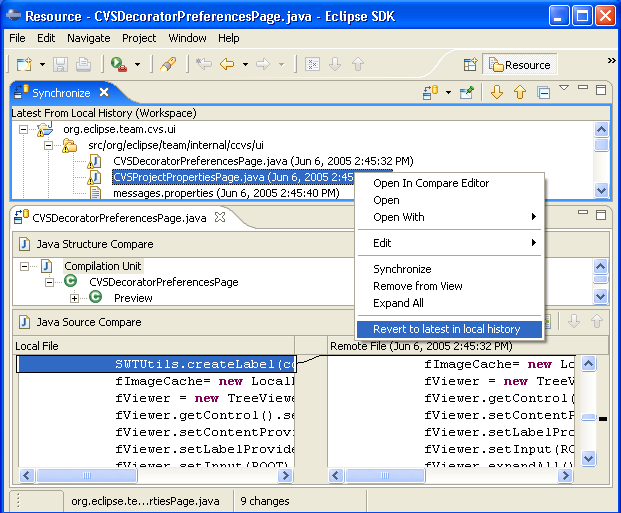
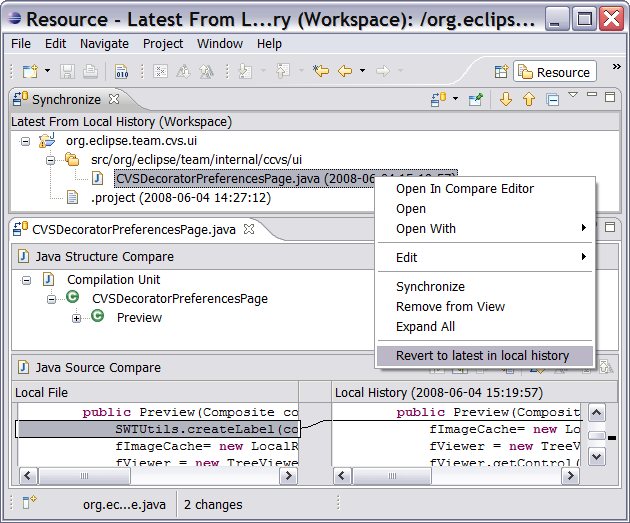
Bug 192835 - [Doc] Outdated screen shot on Local History Example page in Plug-in Dev Guide

diff --git a/bundles/org.eclipse.platform.doc.isv/guide/team_synchronize_localhistory_example.htm b/bundles/org.eclipse.platform.doc.isv/guide/team_synchronize_localhistory_example.htm
@@ -30,8 +30,8 @@
   plug-in. You can check the project out from the CVS repository and use it as 
   a reference while you are reading this tutorial. <em>Disclaimer</em>: The source 
   code in the example plug-ins may change over time. To get a copy that matches 
-  what is used in this example, you can check out the project using the 3.0 version 
-  tag (most likely R3_0) or a date tag of June 28, 2004.<br>
+  what is used in this example, you can check out the project using the 3.3.2 version 
+  tag (most likely R3_3_2) or a date tag of June 10, 2007.<br>
   <br>
   <img src="images/team_synchronize_example_localhistory_overview.png" alt="local history overview"><br>
   <br>
@@ -47,33 +47,34 @@
   history. This will allow the synchronize APIs to access the contents from the 
   local history so it can be compared with the current contents and displayed 
   to the user.</p>
-<pre><span style="color: rgb(68, 68, 204);">public class LocalHistoryVariant implements IResourceVariant {</span><br
- style="color: rgb(68, 68, 204);"><span style="color: rgb(68, 68, 204);">  private final IFileState state;</span><br
- style="color: rgb(68, 68, 204);"><br style="color: rgb(68, 68, 204);"><span
- style="color: rgb(68, 68, 204);">  public LocalHistoryVariant(IFileState state) {</span><br
- style="color: rgb(68, 68, 204);"><span style="color: rgb(68, 68, 204);">    this.state = state;</span><br
- style="color: rgb(68, 68, 204);"><span style="color: rgb(68, 68, 204);">  }</span><br
- style="color: rgb(68, 68, 204);"><br
- style="color: rgb(68, 68, 204);"><span style="color: rgb(68, 68, 204);">  public String getName() {</span><br
- style="color: rgb(68, 68, 204);"><span style="color: rgb(68, 68, 204);">    return state.getName();</span><br
- style="color: rgb(68, 68, 204);"><span style="color: rgb(68, 68, 204);">  }</span><br
- style="color: rgb(68, 68, 204);"><br style="color: rgb(68, 68, 204);"><span
- style="color: rgb(68, 68, 204);">  public boolean isContainer() {</span><br
- style="color: rgb(68, 68, 204);"><span style="color: rgb(68, 68, 204);">    return false;</span><br
- style="color: rgb(68, 68, 204);"><span style="color: rgb(68, 68, 204);">  }</span><br
- style="color: rgb(68, 68, 204);"><br style="color: rgb(68, 68, 204);"><span
- style="color: rgb(68, 68, 204);">  public IStorage getStorage(IProgressMonitor monitor) throws TeamException {</span><br
- style="color: rgb(68, 68, 204);"><span style="color: rgb(68, 68, 204);">    return state;</span><br
- style="color: rgb(68, 68, 204);"><span style="color: rgb(68, 68, 204);">  }</span><br
- style="color: rgb(68, 68, 204);"><br style="color: rgb(68, 68, 204);"><span
- style="color: rgb(68, 68, 204);">  public String getContentIdentifier() {</span><br
- style="color: rgb(68, 68, 204);"><span style="color: rgb(68, 68, 204);">    return Long.toString(state.getModificationTime());</span><br
- style="color: rgb(68, 68, 204);"><span style="color: rgb(68, 68, 204);">  }</span><br
- style="color: rgb(68, 68, 204);"><br style="color: rgb(68, 68, 204);"><span
- style="color: rgb(68, 68, 204);">  public byte[] asBytes() {</span><br
- style="color: rgb(68, 68, 204);"><span style="color: rgb(68, 68, 204);">    return null;</span><br
- style="color: rgb(68, 68, 204);"><span style="color: rgb(68, 68, 204);">  }</span><br
- style="color: rgb(68, 68, 204);"><span style="color: rgb(68, 68, 204);">}</span></pre>
+
+<pre><span style="color: rgb(68, 68, 204);">
+public class LocalHistoryVariant implements IResourceVariant {
+  private final IFileState state;
+  public LocalHistoryVariant(IFileState state) {
+    this.state = state;
+  }
+  public String getName() {
+    return state.getName();
+  }
+  public boolean isContainer() {
+    return false;
+  }
+  public IStorage getStorage(IProgressMonitor monitor) throws TeamException {
+    return state;
+  }
+  public String getContentIdentifier() {
+    return DateFormat.getDateTimeInstance().format(new Date(state.getModificationTime()));
+  }
+  public byte[] asBytes() {
+    return null;
+  }
+  public IFileState getFileState() {
+    return state;
+  }
+}
+</span></pre>
+ 
 <p>Since the IFileState interface already provides access to the contents of the 
   file from local history (i.e. implements the IStorage interface), this was easy. 
   Generally, when creating a variant you have to provide a way of accessing the 
@@ -87,19 +88,21 @@
   history state differs from the current contents of the file. This is because 
   the specification for local history says that it won't create a local history 
   state if the file hasn't changed. </p>
-<pre><span style="color: rgb(68, 68, 204);">public class LocalHistoryVariantComparator implements IResourceVariantComparator {</span><br
- style="color: rgb(68, 68, 204);"><span style="color: rgb(68, 68, 204);">  public boolean compare(IResource local, IResourceVariant remote) {</span><br
- style="color: rgb(68, 68, 204);"><span style="color: rgb(68, 68, 204);">    return false;</span><br
- style="color: rgb(68, 68, 204);"><span style="color: rgb(68, 68, 204);">  }</span><br
- style="color: rgb(68, 68, 204);"><br style="color: rgb(68, 68, 204);"><span
- style="color: rgb(68, 68, 204);">  public boolean compare(IResourceVariant base, IResourceVariant remote) {</span><br
- style="color: rgb(68, 68, 204);"><span style="color: rgb(68, 68, 204);">    return false;</span><br
- style="color: rgb(68, 68, 204);"><span style="color: rgb(68, 68, 204);">  }</span><br
- style="color: rgb(68, 68, 204);"><br style="color: rgb(68, 68, 204);"><span
- style="color: rgb(68, 68, 204);">  public boolean isThreeWay() {</span><br
- style="color: rgb(68, 68, 204);"><span style="color: rgb(68, 68, 204);">    return false;</span><br
- style="color: rgb(68, 68, 204);"><span style="color: rgb(68, 68, 204);">  }</span><br
- style="color: rgb(68, 68, 204);"><span style="color: rgb(68, 68, 204);">}</span></pre>
+
+<pre><span style="color: rgb(68, 68, 204);">
+public class LocalHistoryVariantComparator implements IResourceVariantComparator {
+  public boolean compare(IResource local, IResourceVariant remote) {
+    return false;
+  }
+  public boolean compare(IResourceVariant base, IResourceVariant remote) {
+    return false;
+  }
+  public boolean isThreeWay() {
+    return false;
+  }
+}
+</span></pre>
+ 
 <p>Because we know that the existence of the local history state implies that 
   it is different from the local, we can simply return <strong>false</strong> 
   when comparing the file to it's local history state. Also, synchronization with 
@@ -111,18 +114,21 @@
   have a local history and for all folders (which never have a local history). 
   To deal with this, we need to define our own subclass of SyncInfo in order to 
   modify the calculated synchronization state for these cases.</p>
-<pre><span style="color: rgb(68, 68, 204);">public class LocalHistorySyncInfo extends SyncInfo {
+  
+<pre><span style="color: rgb(68, 68, 204);">
+public class LocalHistorySyncInfo extends SyncInfo {
   public LocalHistorySyncInfo(IResource local, IResourceVariant remote, IResourceVariantComparator comparator) {
     super(local, null, remote, comparator);
   }
-
   protected int calculateKind() throws TeamException {
     if (getRemote() == null)
       return IN_SYNC;
     else
       return super.calculateKind();
   }
-}</span></pre>
+}
+</span></pre>
+
 <p>We have overridden the constructor to always provide a base that is <em>null</em> 
   (since we are only using two-way comparison) and we have modified the synchronization 
   kind calculation to return <em>IN_SYNC</em> if there is no remote (since we 
@@ -137,13 +143,15 @@
   the contents of a local file changes. Therefore, we can update our state whenever 
   a resource delta occurs. That leaves only two interesting method on our local 
   history subscriber: obtaining a SyncInfo and traversing the workspace. </p>
-<pre><span style="color: rgb(68, 68, 204);">public SyncInfo getSyncInfo(IResource resource) throws TeamException {
+
+<pre><span style="color: rgb(68, 68, 204);">
+public SyncInfo getSyncInfo(IResource resource) throws TeamException {
   try {
     IResourceVariant variant = null;
     if(resource.getType() == IResource.FILE) {
       IFile file = (IFile)resource;
       IFileState[] states = file.getHistory(null);
-      if(states.length &gt; 0) {
+      if(states.length > 0) {
         // last state only
         variant = new LocalHistoryVariant(states[0]);
       } 
@@ -154,7 +162,9 @@
   } catch (CoreException e) {
     throw TeamException.asTeamException(e);
   }
-}</span></pre>
+}
+</span></pre>
+
 <p>The Subscriber will return a new SyncInfo instance that will contain the latest 
   state of the file in local history. The SyncInfo is created with a local history 
   variant for the remote element. For projects, folders and files with no local 
@@ -163,19 +173,22 @@
 </p>
 <p>The remaining code in the local history subscriber is the implementation of 
   the <em>members</em> method:</p>
-<pre><span style="color: rgb(68, 68, 204);">public IResource[] members(IResource resource) throws TeamException {
-  try {
-    if(resource.getType() == IResource.FILE)
-      return new IResource[0];
-    IContainer container = (IContainer)resource;
-    List existingChildren = new ArrayList(Arrays.asList(container.members()));
-    existingChildren.addAll(
-      Arrays.asList(container.findDeletedMembersWithHistory(IResource.DEPTH_INFINITE, null)));
-    return (IResource[]) existingChildren.toArray(new IResource[existingChildren.size()]);
-  } catch (CoreException e) {
-    throw TeamException.asTeamException(e);
-  }
-}</span></pre>
+
+<pre><span style="color: rgb(68, 68, 204);">
+public IResource[] members(IResource resource) throws TeamException {
+    try {
+      if(resource.getType() == IResource.FILE)
+        return new IResource[0];
+      IContainer container = (IContainer)resource;
+      List existingChildren = new ArrayList(Arrays.asList(container.members()));
+      existingChildren.addAll(Arrays.asList(container.findDeletedMembersWithHistory(IResource.DEPTH_INFINITE, null)));
+      return (IResource[]) existingChildren.toArray(new IResource[existingChildren.size()]);
+    } catch (CoreException e) {
+      throw TeamException.asTeamException(e);
+    }
+}
+</span></pre>
+
 <p>The interesting detail of this method is that it will return non-existing children 
   if a deleted resource has local history. This will allow our Subscriber to return 
   SyncInfo for elements that only exist in local history and are no longer in 
@@ -186,22 +199,28 @@
   have a page in the Synchronize View to display the last history state for every 
   element in local history. Since we have a Subscriber, adding this to the Synchronize 
   View is easy. Let's start by adding an synchronize participant extension point:</p>
-<pre><span style="color: rgb(68, 68, 204);">&lt;extension
-       </span><span style="color: rgb(68, 68, 204);">point="org.eclipse.team.ui.synchronizeParticipants"&gt;</span><br
- style="color: rgb(68, 68, 204);"><span style="color: rgb(68, 68, 204);">    &lt;participant</span><br
- style="color: rgb(68, 68, 204);"><span style="color: rgb(68, 68, 204);">        persistent="false"</span><br
- style="color: rgb(68, 68, 204);"><span style="color: rgb(68, 68, 204);">        icon="synced.png"</span><br
- style="color: rgb(68, 68, 204);"><span style="color: rgb(68, 68, 204);">        class="org.eclipse.team.synchronize.example.LocalHistoryParticipant"</span><br
- style="color: rgb(68, 68, 204);"><span style="color: rgb(68, 68, 204);">        name="Latest From Local History"</span><br
- style="color: rgb(68, 68, 204);"><span style="color: rgb(68, 68, 204);">        id="org.eclipse.team.synchronize.example"/&gt;</span><br
- style="color: rgb(68, 68, 204);"><span style="color: rgb(68, 68, 204);"> &lt;/extension&gt;</span></pre>
+
+<pre><span style="color: rgb(68, 68, 204);">
+&lt;extension
+  point="org.eclipse.team.ui.synchronizeParticipants"&gt;
+  &lt;participant
+      persistent="false"
+      icon="icons/full/wizards/synced.gif"
+      class="org.eclipse.team.examples.localhistory.LocalHistoryParticipant"
+      name="Latest From Local History"
+      id="org.eclipse.team.synchronize.example"/&gt;
+&lt;/extension&gt;
+</span></pre>
+ 
 <p>Next we have to implement the LocalHistoryParticipant. It will subclass SubscriberParticipant 
   which will provide all the default behavior for collecting SyncInfo from the 
   subscriber and updating sync states when workspace changes occur. In addition, 
   we will add an action to revert the workspace resources to the latest in local 
   history.</p>
 <p>First, we will look at how a custom action is added to the participant.</p>
-<pre><span style="color: rgb(68, 68, 204);">public static final String CONTEXT_MENU_CONTRIBUTION_GROUP = "context_group_1"; //$NON-NLS-1$
+
+<pre><span style="color: rgb(68, 68, 204);">
+public static final String CONTEXT_MENU_CONTRIBUTION_GROUP = "context_group_1"; //$NON-NLS-1$
   
 private class LocalHistoryActionContribution extends SynchronizePageActionGroup {
   public void initialize(ISynchronizePageConfiguration configuration) {
@@ -214,7 +233,9 @@ private class LocalHistoryActionContribution extends SynchronizePageActionGroup 
         }
       });
   }
-}</span></pre>
+}
+</span></pre>
+
 <p>Here we are adding a specific SynchronizeMoidelAction and operation. The behavior 
   we get for free here is the ability to run in the background and show busy status 
   for the nodes that are being worked on. The action reverts all resources in 
@@ -224,17 +245,43 @@ private class LocalHistoryActionContribution extends SynchronizePageActionGroup 
   display the actual synchronize UI. </p>
 <p>The participant will initialize the configuration as follows in order to add 
   the local history action group to the context menu:</p>
-<pre><span style="color: rgb(68, 68, 204);">protected void initializeConfiguration(ISynchronizePageConfiguration configuration) {</span><br
- style="color: rgb(68, 68, 204);"><span style="color: rgb(68, 68, 204);">  super.initializeConfiguration(configuration);</span><br
- style="color: rgb(68, 68, 204);"><span style="color: rgb(68, 68, 204);">  configuration.addMenuGroup(</span><br
- style="color: rgb(68, 68, 204);"><span style="color: rgb(68, 68, 204);">      ISynchronizePageConfiguration.P_CONTEXT_MENU, </span><br
- style="color: rgb(68, 68, 204);"><span style="color: rgb(68, 68, 204);">      CONTEXT_MENU_CONTRIBUTION_GROUP);</span><br
- style="color: rgb(68, 68, 204);"><span style="color: rgb(68, 68, 204);">  configuration.addActionContribution(new LocalHistoryActionContribution());
-  configuration.addLabelDecorator(new LocalHistoryDecorator());</span><br
- style="color: rgb(68, 68, 204);"><span style="color: rgb(68, 68, 204);">}</span></pre>
+  
+<pre><span style="color: rgb(68, 68, 204);">
+protected void initializeConfiguration(ISynchronizePageConfiguration configuration) {
+  super.initializeConfiguration(configuration);
+  configuration.addMenuGroup(
+    ISynchronizePageConfiguration.P_CONTEXT_MENU, 
+    CONTEXT_MENU_CONTRIBUTION_GROUP);
+  configuration.addActionContribution(new LocalHistoryActionContribution());
+  configuration.addLabelDecorator(new LocalHistoryDecorator());	
+}
+</span></pre>
+ 
 <p>Now lets look at how we can provide a custom decoration. The last line of the 
   above method registers the following decorator with the page's configuration.</p>
-<pre><span style="color: rgb(68, 68, 204);">public</span><span style="color: rgb(68, 68, 204);"> class LocalHistoryDecorator extends LabelProvider implements ILabelDecorator {<br>  public String decorateText(String text, Object element) {<br>    if(element instanceof ISynchronizeModelElement) {<br>      ISynchronizeModelElement node = (ISynchronizeModelElement)element;<br>      if(node instanceof IAdaptable) {<br>        SyncInfo info = (SyncInfo)((IAdaptable)node).getAdapter(SyncInfo.class);<br>        if(info != null) {<br>          LocalHistoryVariant state = (LocalHistoryVariant)info.getRemote();<br>          return text+ &quot; (&quot;+ state.getContentIdentifier() + &quot;)&quot;;<br>        }<br>      }<br>    }<br>    return text;<br>  }<br>    <br>  public Image decorateImage(Image image, Object element) {<br>    return null;<br>  }<br>}</span></pre>
+
+<pre><span style="color: rgb(68, 68, 204);">
+private class LocalHistoryDecorator extends LabelProvider implements ILabelDecorator {
+  public String decorateText(String text, Object element) {
+    if(element instanceof ISynchronizeModelElement) {
+      ISynchronizeModelElement node = (ISynchronizeModelElement)element;
+      if(node instanceof IAdaptable) {
+        SyncInfo info = (SyncInfo)((IAdaptable)node).getAdapter(SyncInfo.class);
+        if(info != null) {
+          LocalHistoryVariant state = (LocalHistoryVariant)info.getRemote();
+          return text+ " ("+ state.getContentIdentifier() + ")";
+        }
+      }
+    }
+    return text;
+  }
+		
+  public Image decorateImage(Image image, Object element) {
+    return null;
+  }
+}
+</span></pre>
+
 <p>The decorator extracts the resource from the model element that appears in 
   the synchronize view and appends the content identifier of the local history 
   resource variant to the text label that appears in the view.</p>
@@ -243,22 +290,30 @@ private class LocalHistoryActionContribution extends SynchronizePageActionGroup 
   action that allows users to quickly create a synchronization. In addition, the 
   ability to create synchronizations in available from the Synchronize view toolbar. 
   To start, create a synchronizeWizards extension point:</p>
-<pre><span style="color: rgb(68, 68, 204);">&lt;extension</span><br
- style="color: rgb(68, 68, 204);"><span style="color: rgb(68, 68, 204);">         point="org.eclipse.team.ui.synchronizeWizards"&gt;</span><br
- style="color: rgb(68, 68, 204);"><span style="color: rgb(68, 68, 204);">    &lt;wizard</span><br
- style="color: rgb(68, 68, 204);"><span style="color: rgb(68, 68, 204);">        class="org.eclipse.team.synchronize.example.LocalHistorySynchronizeWizard"</span><br
- style="color: rgb(68, 68, 204);"><span style="color: rgb(68, 68, 204);">        icon="synced.png"</span><br
- style="color: rgb(68, 68, 204);"><span style="color: rgb(68, 68, 204);">        description="Creates a synchronization against the latest local history state of all resources in the workspace"</span><br
- style="color: rgb(68, 68, 204);"><span style="color: rgb(68, 68, 204);">        name="Latest From Local History Synchronize"</span><br
- style="color: rgb(68, 68, 204);"><span style="color: rgb(68, 68, 204);">        id="ExampleSynchronizeSupport.wizard1"/&gt;</span><br
- style="color: rgb(68, 68, 204);"><span style="color: rgb(68, 68, 204);">&lt;/extension&gt;</span></pre>
-<p>This will add our wizard to the list and in the wizards finish() method we 
+
+<pre><span style="color: rgb(68, 68, 204);">
+&lt;extension
+  point="org.eclipse.team.ui.synchronizeWizards"&gt;
+  &lt;wizard
+    class="org.eclipse.team.examples.localhistory.LocalHistorySynchronizeWizard"
+    icon="icons/full/wizards/synced.gif"
+    description="Synchronize resources with their previous contents in the local history"
+    name="Synchronize with Latest From Local History"
+    id="ExampleSynchronizeSupport.wizard1"/&gt;
+&lt;/extension>
+</span></pre>
+ 
+<p>This will add our wizard to the list and in the wizards performFinish() method we 
   will simply create our participant and add it to the synchronize manager.</p>
-<pre><span style="color: rgb(68, 68, 204);">LocalHistoryPartipant participant = new LocalHistoryPartipant();</span><br
- style="color: rgb(68, 68, 204);"><span style="color: rgb(68, 68, 204);">ISynchronizeManager manager = TeamUI.getSynchronizeManager();</span><br
- style="color: rgb(68, 68, 204);"><span style="color: rgb(68, 68, 204);">manager.addSynchronizeParticipants(new ISynchronizeParticipant[] {participant});</span><br
- style="color: rgb(68, 68, 204);"><span style="color: rgb(68, 68, 204);">ISynchronizeView view = manager.showSynchronizeViewInActivePage();</span><br
- style="color: rgb(68, 68, 204);"><span style="color: rgb(68, 68, 204);">view.display(participant);</span></pre>
+
+<pre><span style="color: rgb(68, 68, 204);">
+LocalHistoryParticipant participant = new LocalHistoryParticipant();
+ISynchronizeManager manager = TeamUI.getSynchronizeManager();
+manager.addSynchronizeParticipants(new ISynchronizeParticipant[] {participant});
+ISynchronizeView view = manager.showSynchronizeViewInActivePage();
+view.display(participant);
+</span></pre>
+
 <h3>Conclusion</h3>
 <p>This is a simple example of using the synchronize APIs and we have glossed 
   over some of the details in order to make the example easier to understand. 
